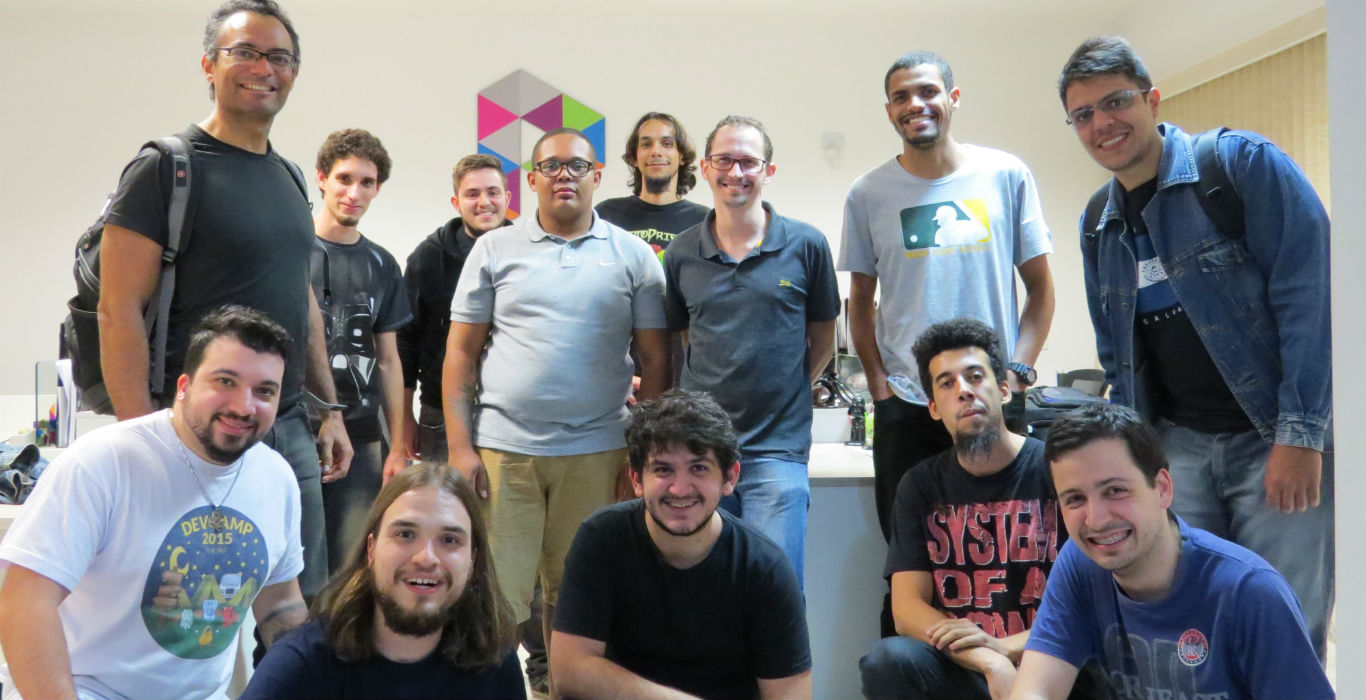
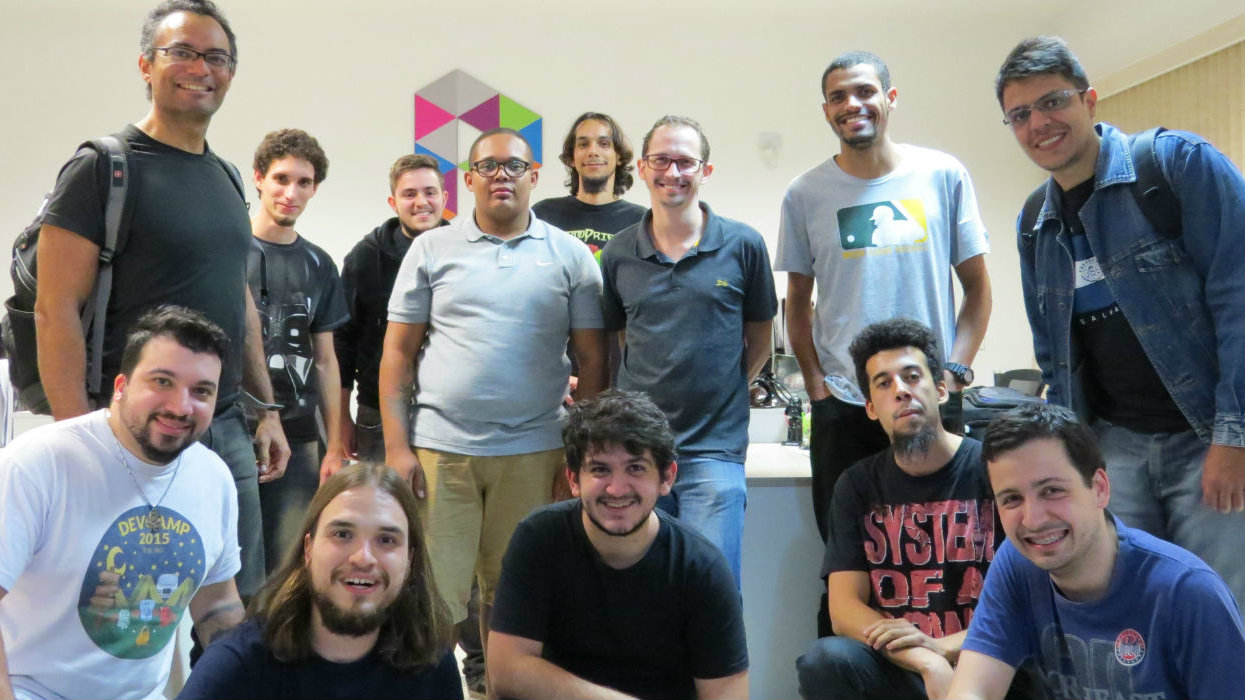
Fix meetup photo distortion

diff --git a/index.html b/index.html
@@ -119,9 +119,15 @@
 			<div class="carousel-inner">
 				<div class="item active">
 					<img src="img/meetups/2015-07-31.jpg" alt="Meetup de 31/07/2015">
+
 					<div class="container">
 						<div class="carousel-caption">
-							<p><a href="http://www.meetup.com/Nodeschool-Campinas/events/223778257/" class="text-contrast"><i class="glyphicon glyphicon-calendar"></i> Último meetup: 31/07/2015</a></p>
+							<time datetime="2015-07-31" pubdate="pubdate">
+								<a href="http://www.meetup.com/Nodeschool-Campinas/events/223778257/" class="text-contrast">
+									<i class="glyphicon glyphicon-calendar"></i>
+									Último meetup: 31/07/2015
+								</a>
+							</time>
 						</div>
 					</div>
 				</div>

diff --git a/css/carousel.css b/css/carousel.css
@@ -39,7 +39,6 @@ body {
 
 /* Carousel base class */
 .carousel {
-  height: 500px;
   margin-bottom: 60px;
 }
 /* Since positioning the image, we need to help out the caption */
@@ -49,15 +48,11 @@ body {
 
 /* Declare heights because of positioning of img element */
 .carousel .item {
-  height: 500px;
   background-color: #777;
 }
 .carousel-inner > .item > img {
-  position: absolute;
-  top: 0;
-  left: 0;
-  min-width: 100%;
-  height: 500px;
+  width: 100%;
+  height: auto;
 }
 
 
